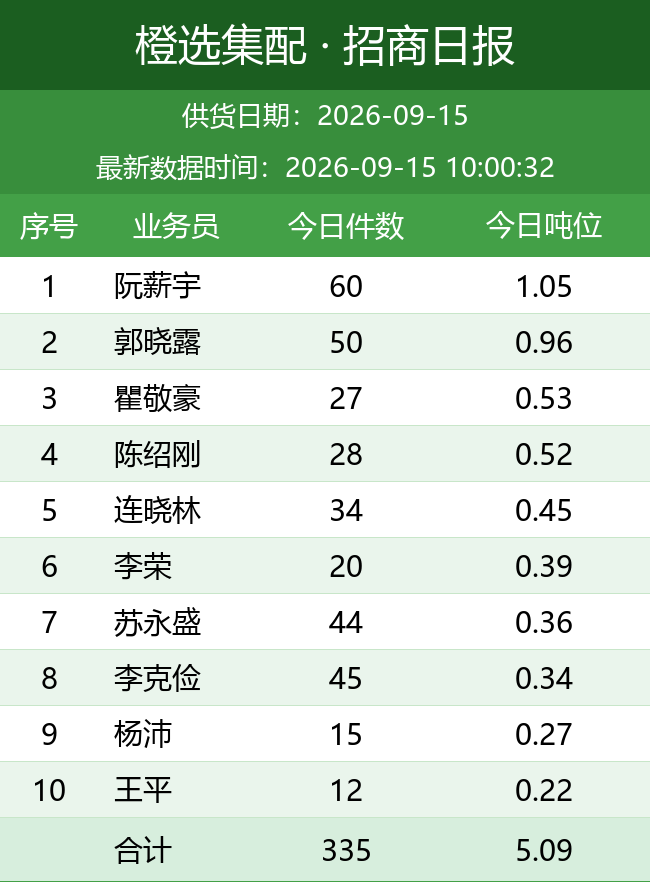
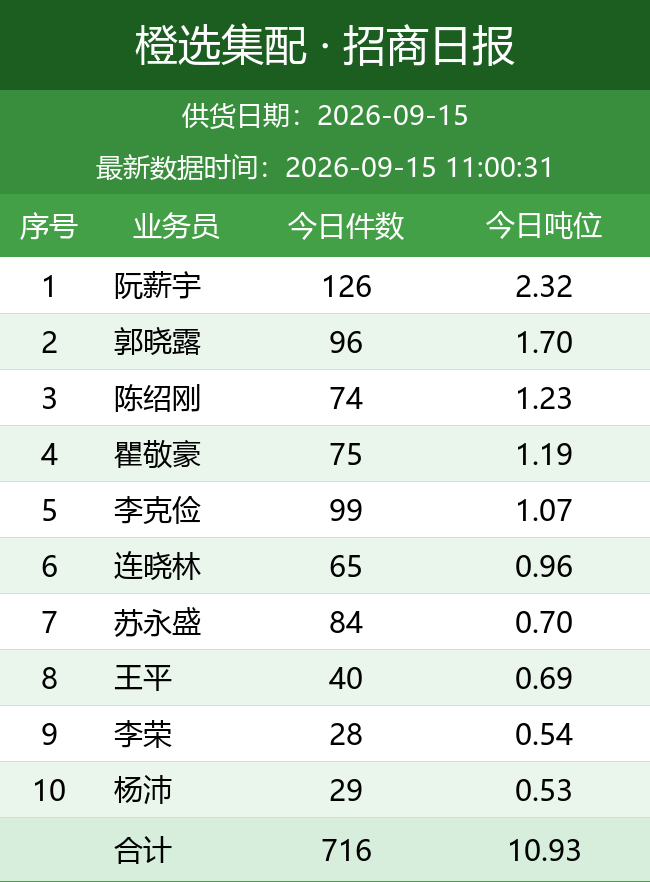
自动更新日报图片

diff --git a/index.html b/index.html
@@ -11,7 +11,7 @@ img { max-width: 100%; border: 1px solid #e5e5e5; margin-bottom: 24px; display: 
 </style>
 </head>
 <body>
-<h1>橙选集配日报图片（20260915_100034）</h1>
+<h1>橙选集配日报图片（20260915_110034）</h1>
 <img src="bd_latest.png" alt="BD 日报">
 <img src="wh_latest.png" alt="城市仓日报">
 <img src="zs_latest.png" alt="招商日报">
